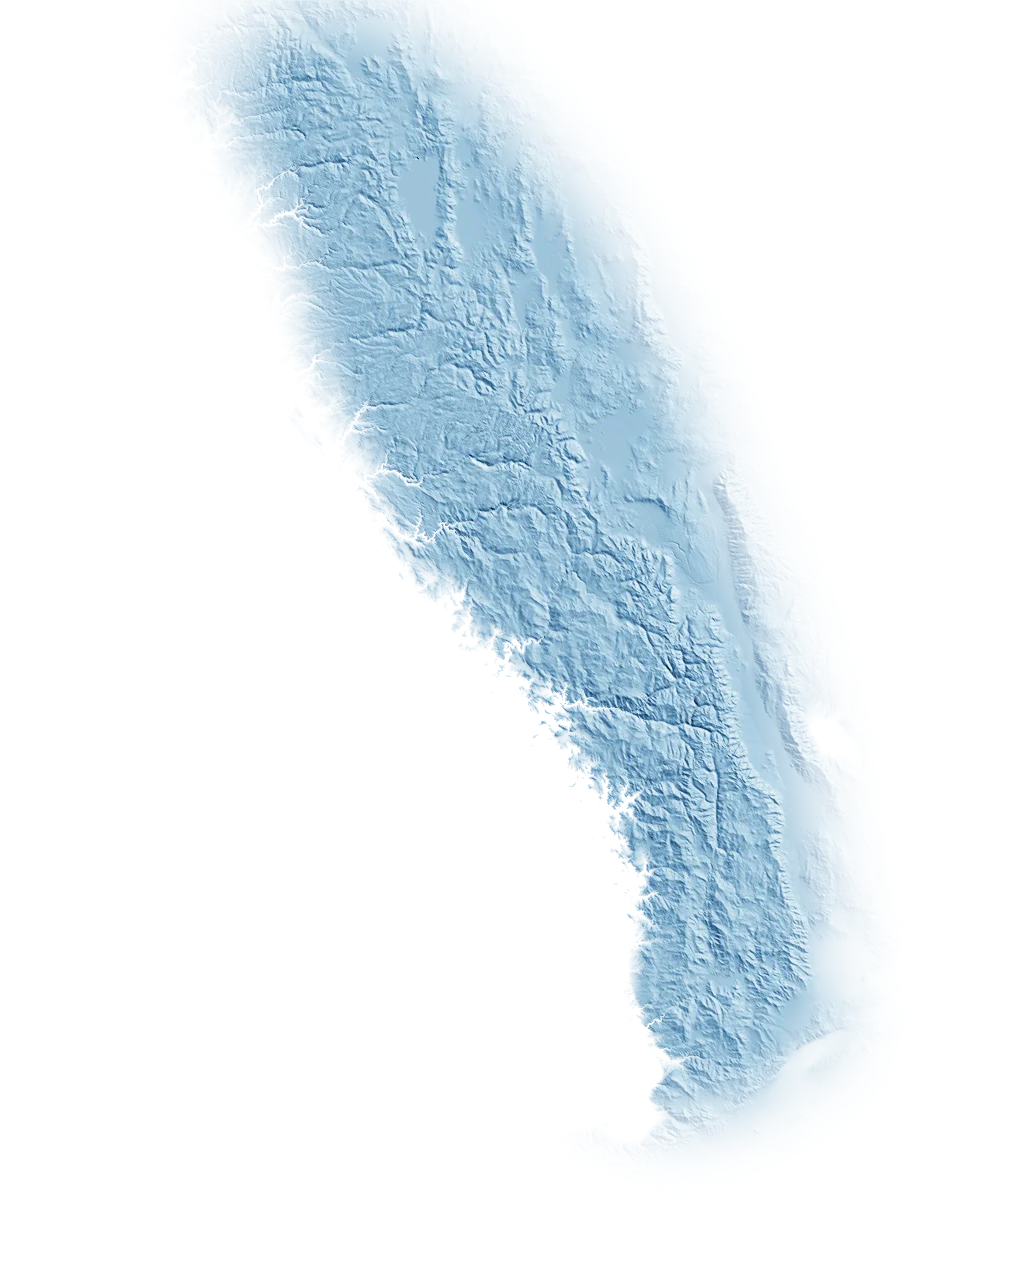
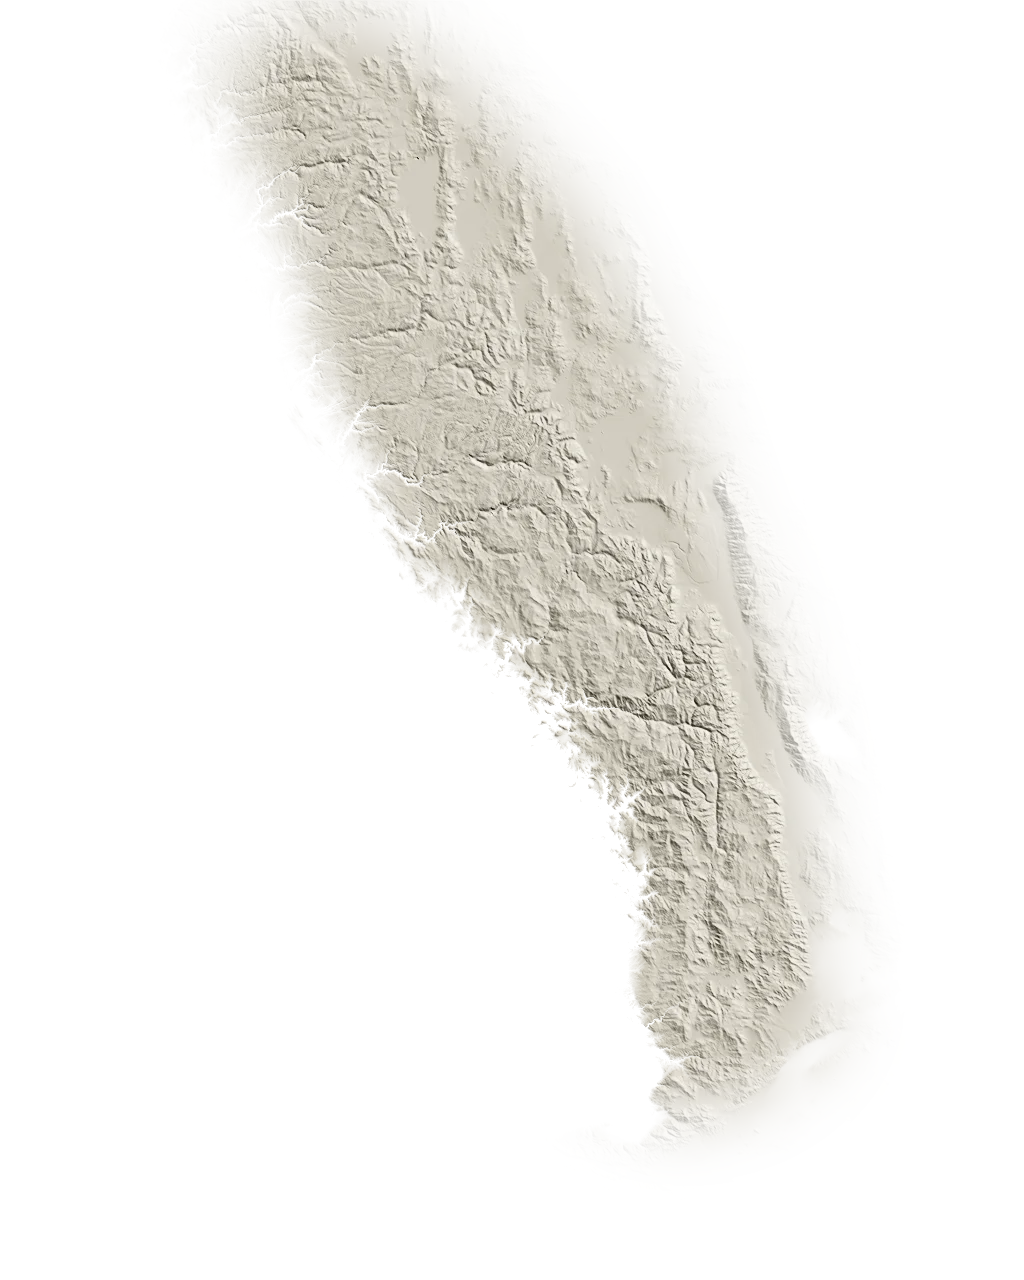
Adjust relief map color, alignment, and fix HEIC thumbnails
- Color ramp: replace blue tint with warm-neutral ink→cream ramp so the
  terrain reads as shading on top of the page background, not a blue map
- Left-align map container (remove centering) to leave right side open for
  the peak detail panel
- HEIC photos: inject f_auto,q_auto into Cloudinary upload URLs so
  non-Safari browsers get JPEG/WebP instead of blank thumbnails
  (affects Mt Humphreys and Mt Dana; Lightbox also receives transformed urls)

Claude-Session: https://claude.ai/code/session_01XEUDaVaS9QR7tGp9CRySkC

Changed region(s): [[0.2188, 0.0, 0.8125, 0.875]]

diff --git a/src/components/adventures/SierraNevadaReliefMap.jsx b/src/components/adventures/SierraNevadaReliefMap.jsx
@@ -26,6 +26,14 @@ function formatDate(dateStr) {
   })
 }
 
+// Cloudinary serves HEIC as JPEG/WebP when f_auto is present.
+// Without it, non-Safari browsers silently blank on .heic uploads.
+function cdnAuto(url) {
+  if (!url?.includes('cloudinary.com')) return url
+  if (url.includes('/upload/f_auto')) return url  // already transformed
+  return url.replace('/upload/', '/upload/f_auto,q_auto/')
+}
+
 export default function SierraNevadaReliefMap() {
   const [selected, setSelected] = useState(null)
   const [tooltip, setTooltip] = useState(null)
@@ -35,7 +43,7 @@ export default function SierraNevadaReliefMap() {
 
   return (
     <div
-      style={{ position: 'relative', maxWidth: 500, margin: '0 auto' }}
+      style={{ position: 'relative', maxWidth: 460 }}
       onClick={() => setSelected(null)}
     >
       {/*
@@ -185,7 +193,11 @@ export default function SierraNevadaReliefMap() {
                       {ascent.photos.map((photo, pi) => (
                         <button
                           key={pi}
-                          onClick={() => setLightbox({ photos: ascent.photos, peakName: selected.name, startIndex: pi })}
+                          onClick={() => setLightbox({
+                            photos: ascent.photos.map(p => ({ ...p, url: cdnAuto(p.url) })),
+                            peakName: selected.name,
+                            startIndex: pi,
+                          })}
                           style={{
                             width: 44, height: 44, borderRadius: 3, overflow: 'hidden',
                             flexShrink: 0, padding: 0, border: '1px solid var(--c-border)',
@@ -193,7 +205,7 @@ export default function SierraNevadaReliefMap() {
                           }}
                         >
                           <img
-                            src={photo.url}
+                            src={cdnAuto(photo.url)}
                             alt={photo.caption || selected.name}
                             style={{ width: '100%', height: '100%', objectFit: 'cover' }}
                           />

diff --git a/scripts/generate-sierra-hillshade.py b/scripts/generate-sierra-hillshade.py
@@ -122,16 +122,15 @@ def compute_hillshade(elev, cell_size_m=490.0, azimuth_deg=315.0, altitude_deg=4
 
 # ── Color ramp ────────────────────────────────────────────────────────────────
 
-# Maps normalized hillshade (0=shadow, 1=lit) to RGB.
-# Deep shadow → dark navy; illuminated face → near-white.
-# The steep curve at both ends makes the contrast crisp.
+# Warm-neutral ramp: shadow → site ink (#1A1A1A family), lit → site bg (#FAFAF8).
+# No hue shift — the terrain "comes out of" the page background.
 COLOR_RAMP = [
-    (0.00, (6,   18,  38)),   # deep shadow  → near black navy
-    (0.14, (22,  58,  95)),   # heavy shadow → dark teal
-    (0.32, (52, 102, 145)),   # mid shadow   → steel blue
-    (0.54, (105, 155, 190)),  # midtone      → medium blue
-    (0.76, (175, 210, 228)),  # soft light   → pale blue
-    (1.00, (238, 244, 248)),  # full light   → near white
+    (0.00, (18,  18,  14)),   # deep shadow  → near-ink
+    (0.22, (66,  62,  52)),   # heavy shadow → warm dark
+    (0.45, (140, 134, 118)),  # midtone      → warm gray
+    (0.68, (206, 201, 188)),  # soft lit     → warm light
+    (0.86, (232, 228, 218)),  # bright       → near cream
+    (1.00, (247, 244, 238)),  # full light   → site bg cream
 ]
 
 def shade_to_rgb(shade_val):
